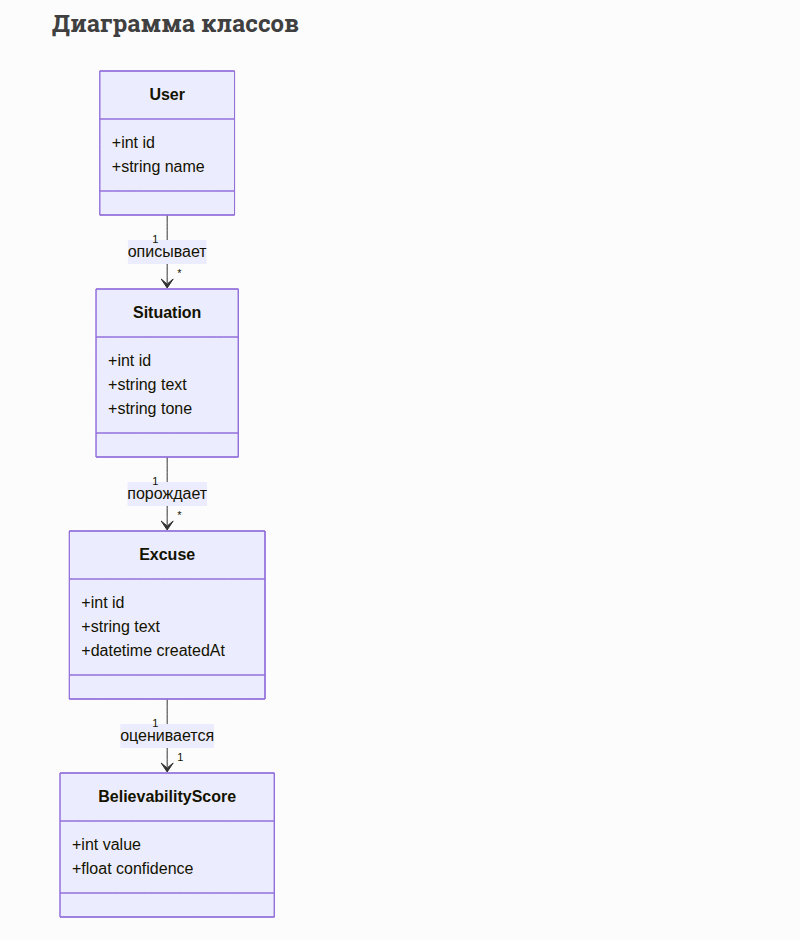
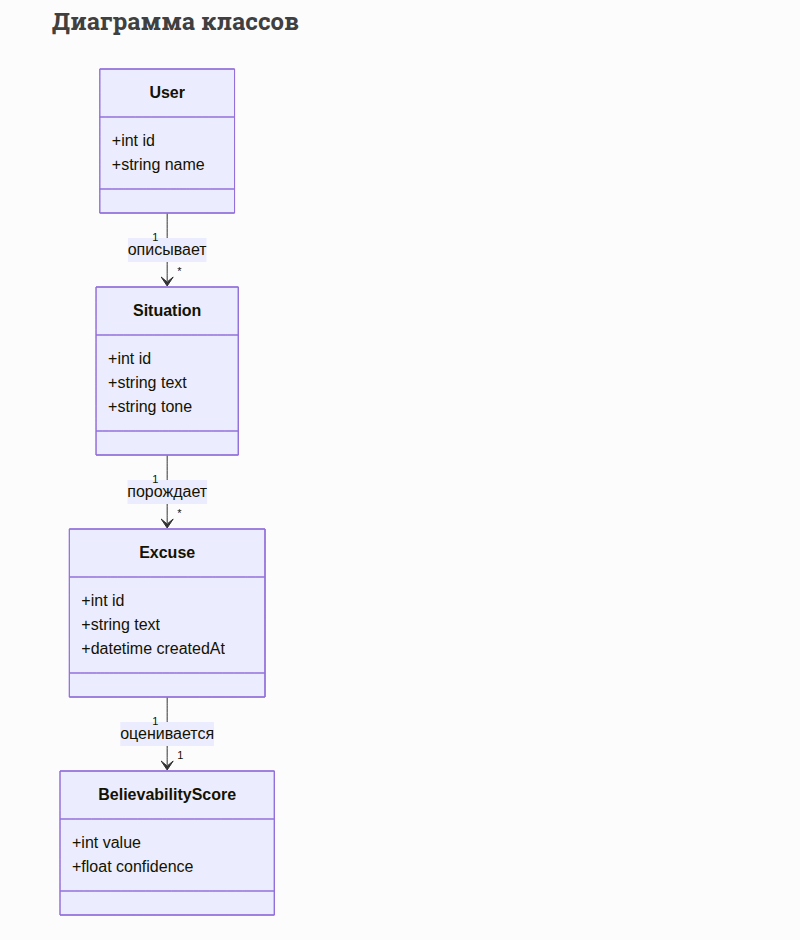
corrections for tasks 2 and 3

Changed region(s): [[0.0625, 0.0, 0.375, 0.9872]]

diff --git a/docs/project/requirements.md b/docs/project/requirements.md
@@ -5,14 +5,17 @@
 ### US-01. Генерация отмазки
 
 Как студент,
-я хочу описать свою ситуацию и получить готовую отмазку,
+я хочу описать свою ситуацию, выбрать тон и получить готовую отмазку,
 чтобы не придумывать её самому в панике.
 
 Критерии приёмки:
 
-- система принимает текст ситуации длиной от 5 до 500 символов;
-- после обработки отображается текст отмазки;
-- если текст пустой или слишком короткий, пользователь получает сообщение об ошибке.
+- система принимает текст ситуации длиной от 5 до 500 символов и один из доступных тонов
+  (жалостливый, официальный, мистический);
+- после обработки отображается текст отмазки в выбранном тоне;
+- если ввод некорректен (пустой текст, длина вне диапазона 5–500, тон не выбран),
+  пользователь получает сообщение об ошибке; если модель не смогла сформировать отмазку,
+  пользователю предлагается переформулировать ситуацию.
 
 ### US-02. Оценка убедительности
 
@@ -52,17 +55,25 @@
 
 1. Студент вводит описание ситуации и выбирает тон отмазки.
 2. Студент нажимает кнопку «Придумать отмазку».
-3. Система передаёт текст ситуации и тон ML-модели.
-4. ML-модель формирует текст отмазки.
-5. ML-модель оценивает её убедительность.
-6. Система сохраняет результат в историю.
-7. Студент видит текст отмазки и оценку убедительности.
+3. Система проверяет, что текст ситуации содержит от 5 до 500 символов и тон выбран.
+4. Система передаёт текст ситуации и тон ML-модели.
+5. ML-модель формирует текст отмазки.
+6. ML-модель оценивает её убедительность.
+7. Система сохраняет результат в историю.
+8. Студент видит текст отмазки и оценку убедительности.
 
-**Альтернативный сценарий:**
+**Альтернативные сценарии:**
 
-Если ML-модель не смогла обработать текст (например, ситуация состоит из набора
-случайных символов), система сообщает, что отмазку придумать не удалось,
-и предлагает переформулировать ситуацию.
+- **A1. Некорректный ввод (шаг 3).** Если текст пустой, короче 5 или длиннее 500 символов
+  либо тон не выбран, система показывает сообщение об ошибке и не передаёт запрос модели.
+  Студент возвращается к шагу 1.
+- **A2. Модель не смогла обработать текст (шаг 5).** Если ML-модель не смогла сформировать
+  отмазку (например, ситуация состоит из набора случайных символов), система сообщает,
+  что отмазку придумать не удалось, и предлагает переформулировать ситуацию.
+  Студент возвращается к шагу 1.
+- **A3. Низкая убедительность (шаг 8).** Если оценка убедительности ниже 40, система вместе
+  с результатом предлагает сгенерировать другой вариант. Если студент соглашается,
+  сценарий повторяется с шага 4 для той же ситуации и тона.
 
 **Результат:** студент получил отмазку с оценкой убедительности либо сообщение
-о необходимости изменить описание ситуации.
+об ошибке с указанием, что нужно изменить.

diff --git a/docs/project/diagrams.md b/docs/project/diagrams.md
@@ -12,17 +12,27 @@ sequenceDiagram
     participant DB as База данных
 
     User->>App: Описание ситуации и тон
-    App->>App: Проверить длину текста
-    App->>Model: Передать ситуацию и тон
-    Model-->>App: Текст отмазки
-    App->>Model: Запросить оценку убедительности
-    Model-->>App: Оценка (0–100)
-    App->>DB: Сохранить в историю
-    App-->>User: Показать отмазку и оценку
+    App->>App: Проверить текст (5–500 символов) и тон
 
-    alt Модель не смогла обработать текст
-        Model-->>App: Ошибка обработки
-        App-->>User: Предложить переформулировать ситуацию
+    alt A1. Некорректный ввод
+        App-->>User: Показать сообщение об ошибке
+    else Ввод корректен
+        App->>Model: Передать ситуацию и тон
+
+        alt A2. Модель не смогла обработать текст
+            Model-->>App: Ошибка обработки
+            App-->>User: Предложить переформулировать ситуацию
+        else Отмазка сформирована
+            Model-->>App: Текст отмазки
+            App->>Model: Запросить оценку убедительности
+            Model-->>App: Оценка (0–100)
+            App->>DB: Сохранить в историю
+            App-->>User: Показать отмазку и оценку
+
+            opt A3. Оценка ниже 40
+                App-->>User: Предложить сгенерировать другой вариант
+            end
+        end
     end
 ```
 
